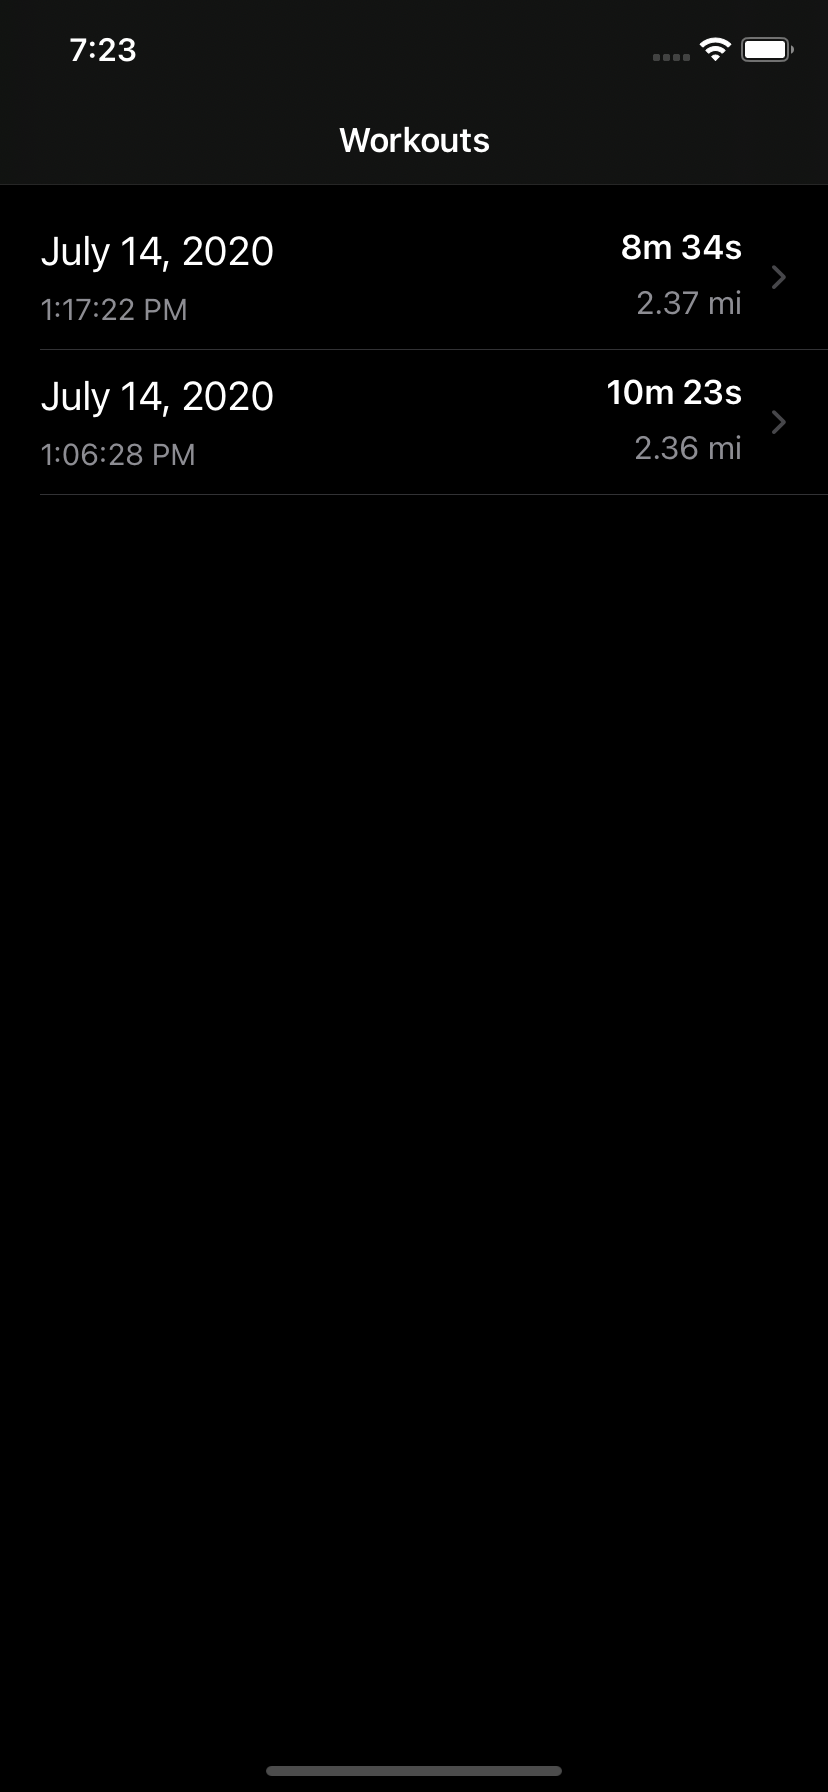
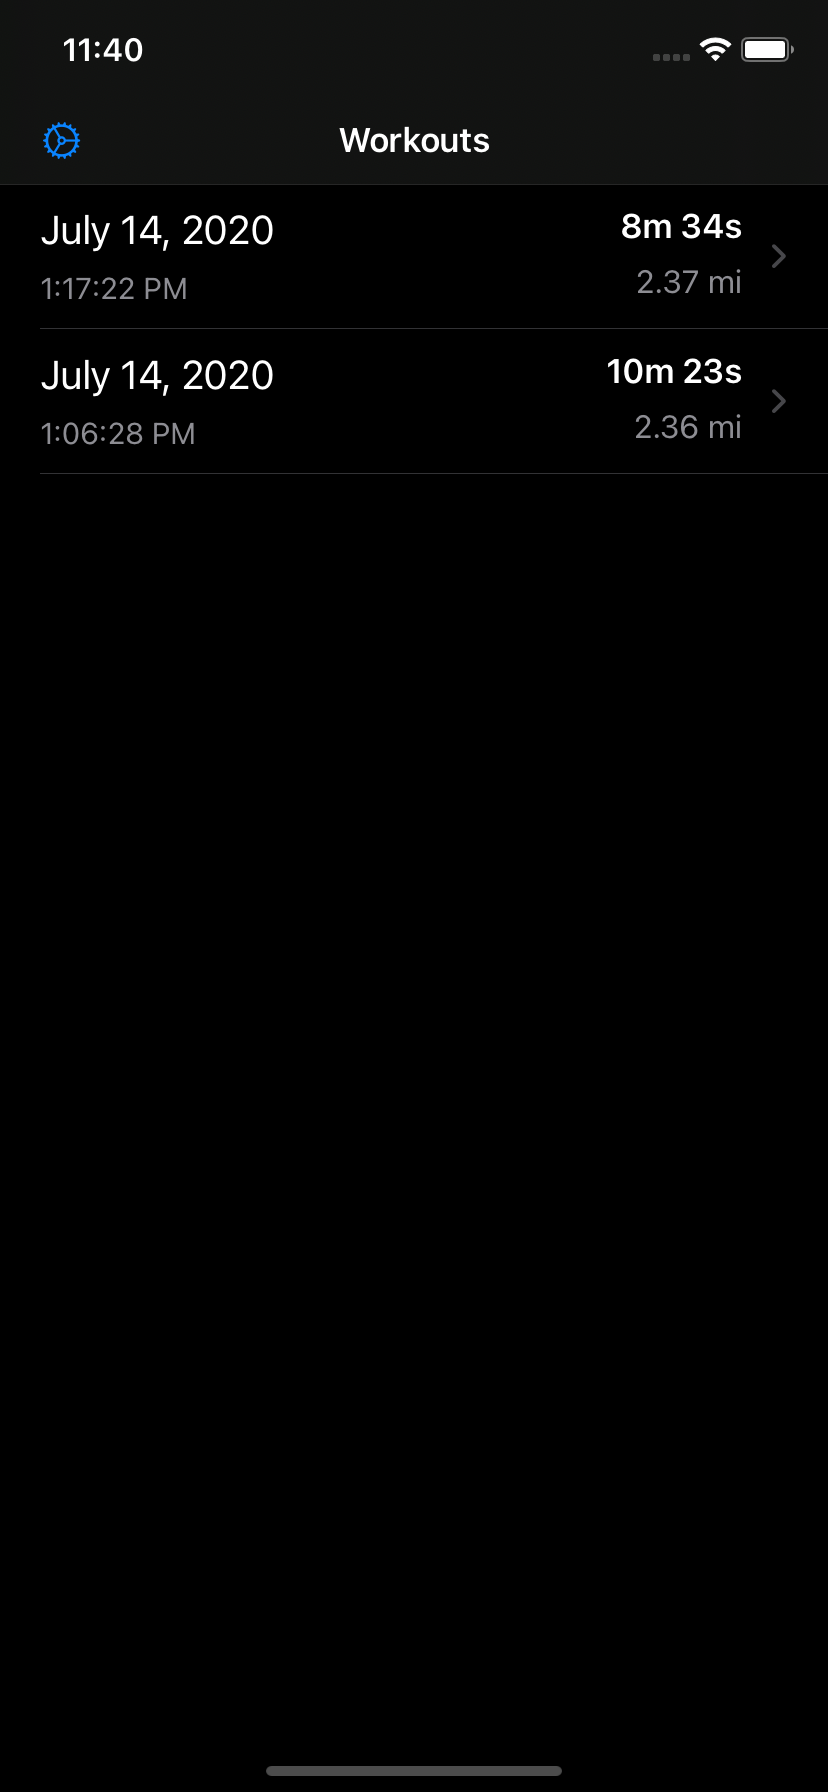
[WSScreenshots] Add screenshot of Preferences view controller

diff --git a/WorkoutSpotUITests/WSScreenshots.m b/WorkoutSpotUITests/WSScreenshots.m
@@ -38,7 +38,7 @@
         [fileManager createDirectoryAtPath:pathHead withIntermediateDirectories:YES attributes:nil error:NULL];
     }
     _pathHead = pathHead;
-    _screenshotPaths = [NSMutableArray arrayWithCapacity:6];
+    _screenshotPaths = [NSMutableArray arrayWithCapacity:7];
 }
 
 - (void)tearDown {
@@ -65,24 +65,31 @@
     
     [self _writeScreenshot:app.screenshot name:@"0_home"];
     
-    XCUIElementQuery *appleParkCell = [app.tables.cells containingType:XCUIElementTypeStaticText identifier:@"10 minutes, 23 seconds"];
-    [appleParkCell.element pressForDuration:2];
-    [self _writeScreenshot:app.screenshot name:@"1_preview"];
+    [app.navigationBars[@"Workouts"].buttons[@"Preferences"] tap];
+    // tap on something, otherwise this screen goes away really fast
+    [app.tables.cells.staticTexts[@"Distance"] tap];
+    [self _writeScreenshot:app.screenshot name:@"1_preferences"];
+    
+    [app.navigationBars[@"Preferences"].buttons[@"Workouts"] tap]; // back to main screen
+    
+    [app.tables.cells.staticTexts[@"10 minutes, 23 seconds"] pressForDuration:2];
+    [self _writeScreenshot:app.screenshot name:@"2_preview"];
     
     [app.otherElements[@"Preview"] tap];
     
     XCUIElement *graphScrollView = app.scrollViews[@"Graph"];
     [graphScrollView pinchWithScale:2 velocity:2];
-    [self _writeScreenshot:app.screenshot name:@"2_time_segment"];
+    [self _writeScreenshot:app.screenshot name:@"3_time_segment"];
+    
     [graphScrollView swipeLeft]; // effectively pick a random spot
-    [self _writeScreenshot:app.screenshot name:@"3_time_point"];
+    [self _writeScreenshot:app.screenshot name:@"4_time_point"];
     
     [app.segmentedControls.buttons[@"Distance"] tap];
     [graphScrollView swipeRight]; // effectively pick another spot
-    [self _writeScreenshot:app.screenshot name:@"4_distance_point"];
+    [self _writeScreenshot:app.screenshot name:@"5_distance_point"];
     
-    [graphScrollView tap]; // effectively pick another spot
-    [self _writeScreenshot:app.screenshot name:@"5_distance_segment"];
+    [graphScrollView tap]; // hide point stats view
+    [self _writeScreenshot:app.screenshot name:@"6_distance_segment"];
 }
 
 @end

diff --git a/Screenshots/iPhone10,5/README.md b/Screenshots/iPhone10,5/README.md
@@ -2,13 +2,15 @@
 
 ![0_home](0_home.png)
 
-![1_preview](1_preview.png)
+![1_preferences](1_preferences.png)
 
-![2_time_segment](2_time_segment.png)
+![2_preview](2_preview.png)
 
-![3_time_point](3_time_point.png)
+![3_time_segment](3_time_segment.png)
 
-![4_distance_point](4_distance_point.png)
+![4_time_point](4_time_point.png)
 
-![5_distance_segment](5_distance_segment.png)
+![5_distance_point](5_distance_point.png)
+
+![6_distance_segment](6_distance_segment.png)
 

diff --git a/Screenshots/iPhone12,1/README.md b/Screenshots/iPhone12,1/README.md
@@ -2,13 +2,15 @@
 
 ![0_home](0_home.png)
 
-![1_preview](1_preview.png)
+![1_preferences](1_preferences.png)
 
-![2_time_segment](2_time_segment.png)
+![2_preview](2_preview.png)
 
-![3_time_point](3_time_point.png)
+![3_time_segment](3_time_segment.png)
 
-![4_distance_point](4_distance_point.png)
+![4_time_point](4_time_point.png)
 
-![5_distance_segment](5_distance_segment.png)
+![5_distance_point](5_distance_point.png)
+
+![6_distance_segment](6_distance_segment.png)
 

diff --git a/Screenshots/iPhone12,5/README.md b/Screenshots/iPhone12,5/README.md
@@ -2,13 +2,15 @@
 
 ![0_home](0_home.png)
 
-![1_preview](1_preview.png)
+![1_preferences](1_preferences.png)
 
-![2_time_segment](2_time_segment.png)
+![2_preview](2_preview.png)
 
-![3_time_point](3_time_point.png)
+![3_time_segment](3_time_segment.png)
 
-![4_distance_point](4_distance_point.png)
+![4_time_point](4_time_point.png)
 
-![5_distance_segment](5_distance_segment.png)
+![5_distance_point](5_distance_point.png)
+
+![6_distance_segment](6_distance_segment.png)
 
